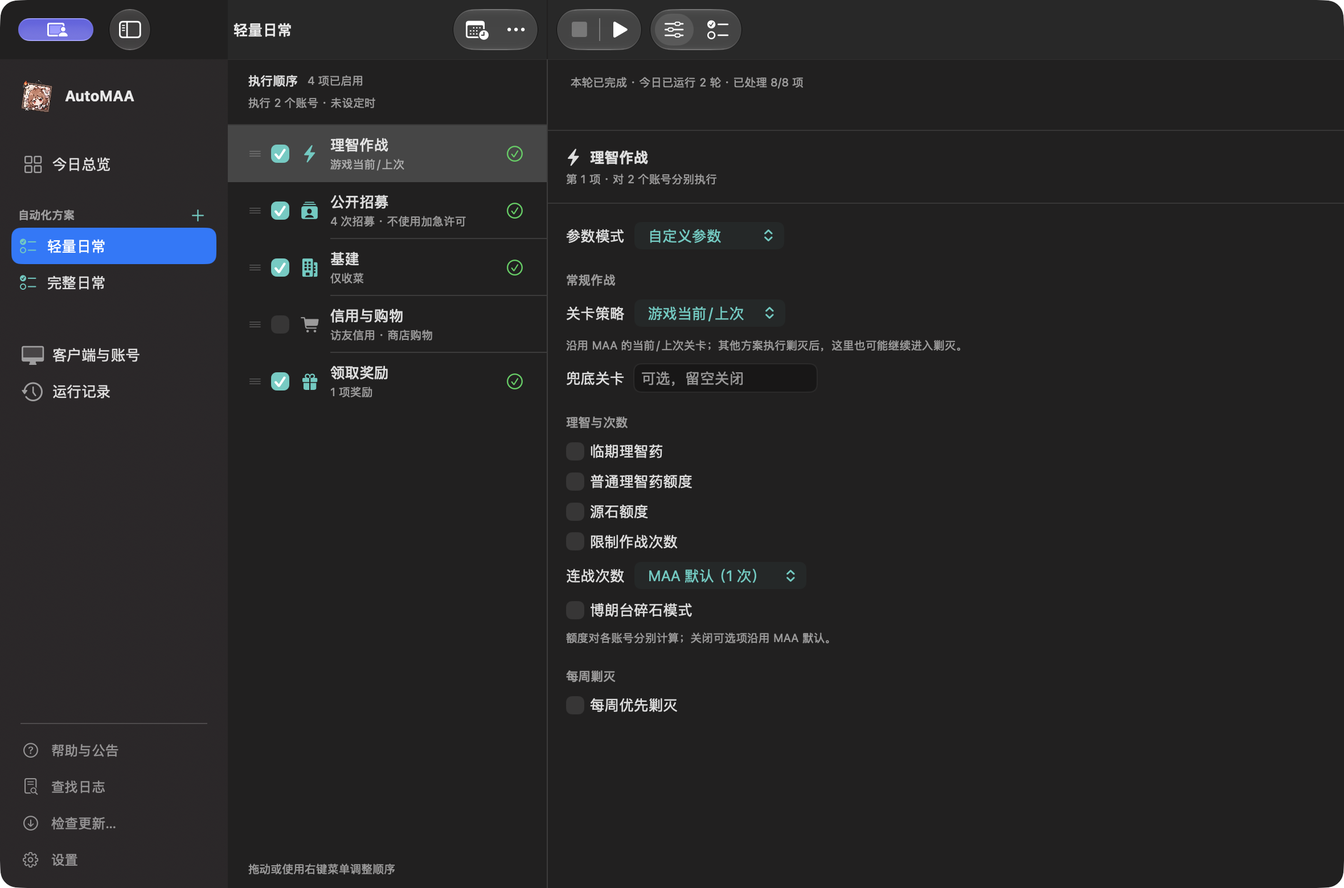
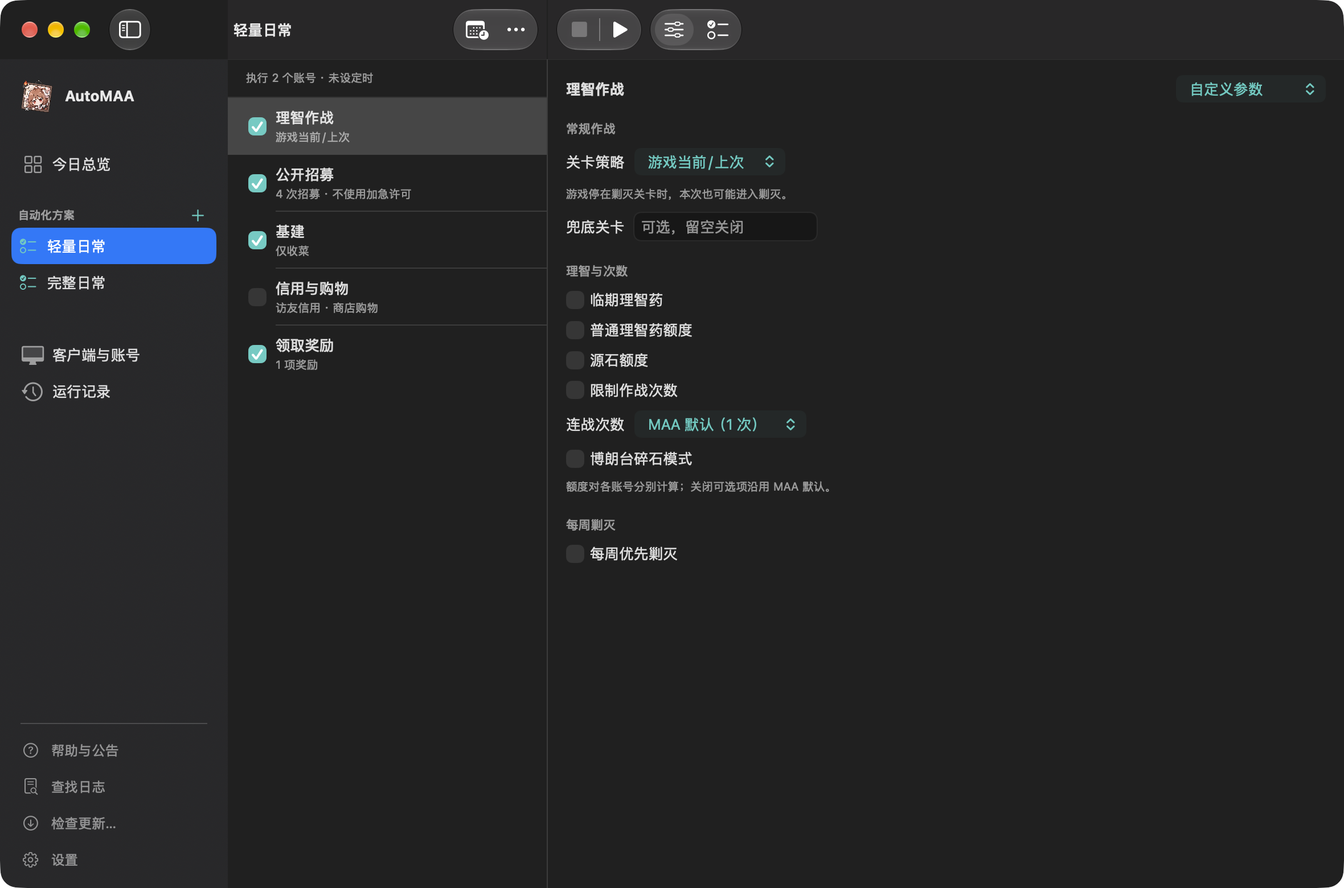
refactor: simplify the plan task editor

diff --git a/Sources/AutoMAA/PlanEditorView.swift b/Sources/AutoMAA/PlanEditorView.swift
@@ -23,15 +23,17 @@ struct PlanEditorView: View {
             switch detailSection {
             case .settings:
                 VStack(spacing: 0) {
-                    VStack(alignment: .leading, spacing: 5) {
-                        let progress = model.continuation(for: plan.id)
-                        PlanRoundSummary(progress: progress, runState: model.planRunState(planID: plan.id))
-                        if progress.hasPendingWork {
+                    if let notice = model.continuation(for: plan.id).taskSettingsNotice(isRunning: isCurrentPlanRunning) {
+                        HStack(spacing: 12) {
+                            Label(notice, systemImage: "exclamationmark.circle")
+                                .font(.callout)
+                                .foregroundStyle(ActivityOutcome.awaitingReview.color)
+                            Spacer(minLength: 8)
                             PendingWorkLinkButton { model.showPlanActivity(plan.id) }
                         }
+                        .padding(.horizontal, 16).padding(.vertical, 4)
+                        Divider()
                     }
-                        .padding(.horizontal, 20).padding(.vertical, 14)
-                    Divider()
                     if let selectedTask {
                         PlanTaskInspector(plan: $plan, task: selectedTask)
                     } else {
@@ -97,23 +99,12 @@ struct PlanEditorView: View {
     private var taskList: some View {
         let statuses = taskStatuses
         return VStack(spacing: 0) {
-            VStack(alignment: .leading, spacing: 6) {
-                HStack {
-                    Text("执行顺序")
-                        .font(.subheadline.weight(.medium))
-                    Text("\(plan.enabledTasks.count) 项已启用")
-                        .font(.caption)
-                        .foregroundStyle(.secondary)
-                    Spacer(minLength: 0)
-                }
-                Text("\(accountSummary) · \(scheduleSummary)")
-                    .font(.caption)
-                    .foregroundStyle(.secondary)
-                    .fixedSize(horizontal: false, vertical: true)
-            }
-            .frame(maxWidth: .infinity, alignment: .leading)
-            .padding(.horizontal, 18)
-            .padding(.vertical, 12)
+            Text("\(accountSummary) · \(scheduleSummary)")
+                .font(.caption)
+                .foregroundStyle(.secondary)
+                .fixedSize(horizontal: false, vertical: true)
+                .frame(maxWidth: .infinity, alignment: .leading)
+                .padding(.horizontal, 16).padding(.vertical, 10)
             Divider()
 
             List(selection: taskSelection) {
@@ -131,52 +122,37 @@ struct PlanEditorView: View {
             }
             .listStyle(.plain)
             .scrollContentBackground(.hidden)
-
-            Text(model.isWorkflowRunning ? "运行结束后可调整任务与参数" : "拖动或使用右键菜单调整顺序")
-                .font(.caption)
-                .foregroundStyle(.secondary)
-                .frame(maxWidth: .infinity, alignment: .leading)
-                .padding(.horizontal, 18)
-                .padding(.vertical, 10)
-                .fixedSize(horizontal: false, vertical: true)
+            .accessibilityLabel("执行顺序")
+            .accessibilityHint("可在任务菜单中上移或下移")
         }
     }
 
     private func taskRow(_ task: TaskKind, status: PlanTaskStatus) -> some View {
         HStack(spacing: 8) {
-            Image(systemName: "line.3.horizontal")
-                .font(.system(size: 10))
-                .foregroundStyle(.tertiary)
-                .accessibilityHidden(true)
             Toggle("启用\(task.title)", isOn: enabledBinding(for: task))
                 .labelsHidden()
                 .toggleStyle(.checkbox)
                 .disabled(model.isWorkflowRunning)
-            Button {
-                selectTask(task)
-            } label: {
-                HStack(spacing: 8) {
-                    Image(systemName: task.symbol)
-                        .font(.system(size: 14))
-                        .foregroundStyle(plan.isEnabled(task) ? Color.maaAccent : .secondary)
-                        .frame(width: 20)
-                        .accessibilityHidden(true)
-                    VStack(alignment: .leading, spacing: 3) {
-                        Text(task.title).font(.body.weight(.medium))
-                        Text(taskSummary(task))
-                            .font(.caption)
-                            .foregroundStyle(.secondary)
-                            .lineLimit(1)
-                            .help(taskSummary(task))
-                    }
-                    Spacer(minLength: 0)
-                    PlanTaskFeedback(status: status)
+            HStack(spacing: 8) {
+                VStack(alignment: .leading, spacing: 3) {
+                    Text(task.title).font(.body.weight(.medium))
+                    Text(taskSummary(task))
+                        .font(.caption)
+                        .foregroundStyle(.secondary)
+                        .lineLimit(1)
+                        .help(taskSummary(task))
                 }
-                .contentShape(Rectangle())
+                Spacer(minLength: 0)
+                PlanTaskFeedback(status: status)
             }
-            .buttonStyle(.plain)
+            .contentShape(Rectangle())
+            // The list owns selection and dragging. A click on the already selected task also reopens its settings.
+            .simultaneousGesture(TapGesture().onEnded { selectTask(task) }, including: detailSection == .activity ? .all : .none)
+            .accessibilityElement(children: .ignore)
+            .accessibilityAddTraits(.isButton)
             .accessibilityLabel("\(model.isWorkflowRunning ? "查看" : "编辑")\(task.title)参数")
             .accessibilityValue([taskSummary(task), status.description].filter { !$0.isEmpty }.joined(separator: "，"))
+            .accessibilityAction { selectTask(task) }
         }
         .padding(.vertical, 2)
         .contentShape(Rectangle())

diff --git a/Sources/AutoMAA/PlanTaskInspector.swift b/Sources/AutoMAA/PlanTaskInspector.swift
@@ -12,17 +12,18 @@ struct PlanTaskInspector: View {
 
     var body: some View {
         VStack(spacing: 0) {
-            VStack(alignment: .leading, spacing: 4) {
-                Label(task.title, systemImage: task.symbol)
-                    .font(.headline)
-                Text("第 \((plan.stepOrder.firstIndex(of: task) ?? 0) + 1) 项 · \(plan.isEnabled(task) ? "对 \(targetAccounts.count) 个账号分别执行" : "已停用，参数仍保留")")
-                    .font(.caption)
-                    .foregroundStyle(.secondary)
+            HStack(spacing: 12) {
+                VStack(alignment: .leading, spacing: 3) {
+                    Text(task.title).font(.headline).accessibilityAddTraits(.isHeader)
+                    if !plan.isEnabled(task) {
+                        Text("已停用，参数仍保留").font(.caption).foregroundStyle(.secondary)
+                    }
+                }
+                Spacer(minLength: 8)
+                parameterMode.disabled(model.isWorkflowRunning)
             }
-            .frame(maxWidth: .infinity, alignment: .leading)
             .padding(.horizontal, 16)
-            .padding(.vertical, 14)
-            Divider()
+            .padding(.top, 14)
 
             ScrollView {
                 VStack(alignment: .leading, spacing: 20) {
@@ -30,7 +31,6 @@ struct PlanTaskInspector: View {
                         Label("运行结束后可修改参数", systemImage: "lock")
                             .font(.caption).foregroundStyle(.secondary)
                     }
-                    parameterMode
                     parameters
                 }
                 .padding(16)
@@ -52,6 +52,7 @@ struct PlanTaskInspector: View {
             Text("自定义参数").tag(true)
         }
         .pickerStyle(.menu)
+        .labelsHidden()
         .fixedSize(horizontal: true, vertical: false)
         .accessibilityLabel("\(task.title)参数模式")
         .help("切回推荐参数仍保留自定义值")
@@ -75,7 +76,6 @@ struct PlanTaskInspector: View {
         }
         if task == .fight {
             weeklyAnnihilation
-            fightRecovery
             fightAccountDetails
         }
     }
@@ -307,15 +307,6 @@ struct PlanTaskInspector: View {
     }
 
     @ViewBuilder
-    private var fightRecovery: some View {
-        if !model.continuation(for: plan.id).fightRecoveryItems.isEmpty {
-            PlanFormSection("需要处理") {
-                PendingWorkLinkButton { model.showPlanActivity(plan.id) }
-            }
-        }
-    }
-
-    @ViewBuilder
     private var fightAccountDetails: some View {
         if (plan.fight.weeklyAnnihilation.enabled || showsRecoveryStage), !fightStageMemoryRows.isEmpty {
             DisclosureGroup("账号状态与常规目标") {
@@ -346,10 +337,6 @@ struct PlanTaskInspector: View {
         }
     }
 
-    private var targetAccounts: [AccountConfiguration] {
-        model.configuration.clients.filter(\.enabled).flatMap { $0.accounts.filter(plan.includes) }
-    }
-
     private var fightStageMemoryRows: [FightStageMemoryRow] {
         model.configuration.clients.filter(\.enabled).flatMap { client in
             client.accounts.filter(plan.includes).map { account in
@@ -377,7 +364,7 @@ struct PlanTaskInspector: View {
             return "识别并记住常规目标，剿灭结束后恢复。"
         }
         switch plan.fight.stageStrategy {
-        case .gameCurrentOrLast: return plan.fight.stageStrategy.detail
+        case .gameCurrentOrLast: return "游戏停在剿灭关卡时，本次也可能进入剿灭。"
         case .rememberedRegular: return "优先游戏中的常规关卡；无法识别或遇到剿灭时使用记录目标。"
         case .fixed: return nil
         }

diff --git a/Tests/AutoMAATests/ContinuationPresentationTests.swift b/Tests/AutoMAATests/ContinuationPresentationTests.swift
@@ -5,6 +5,33 @@ import Testing
 
 @Suite("Continuation presentation")
 struct ContinuationPresentationTests {
+    @Test("task settings only interrupt editing for unfinished work or fight review")
+    func taskSettingsNotice() {
+        let account = AccountConfiguration(name: "测试账号")
+        let client = ClientConfiguration(name: "测试客户端", kind: .yoStarJP, appPath: "", address: "127.0.0.1:65492",
+            profileName: "plan-settings", bundleIdentifier: "dev.automaa.tests.plan-settings", accounts: [account])
+        let plan = AutomationPlan.lightRoutine
+        let configuration = AppConfiguration(cliPath: "/usr/bin/true", clients: [client], plans: [plan])
+        var state = ExecutionState(dateKey: ExecutionStateStore.todayKey)
+        func progress() -> PlanContinuation {
+            PlanContinuation(configuration: configuration, planID: plan.id, state: state, history: [])
+        }
+        #expect(progress().taskSettingsNotice(isRunning: false) == nil)
+        _ = state.startRound(for: plan.id, at: Date())
+        #expect(progress().taskSettingsNotice(isRunning: false) == "本轮剩余 \(plan.enabledTasks.count) 项")
+        #expect(progress().taskSettingsNotice(isRunning: true) == nil)
+
+        for task in plan.enabledTasks {
+            state.completedSteps.insert(WorkflowStep(planID: plan.id, clientID: client.id, accountID: account.id, task: task).key)
+        }
+        #expect(progress().taskSettingsNotice(isRunning: false) == nil)
+        let step = WorkflowStep(planID: plan.id, clientID: client.id, accountID: account.id, task: .fight)
+        state.record(.init(status: .failed, reason: .missingRegularTarget), for: step.key)
+        #expect(progress().taskSettingsNotice(isRunning: false) == "1 项作战需要处理")
+        state.record(.init(status: .unconfirmed, reason: .missingEvidence), for: step.key)
+        #expect(progress().taskSettingsNotice(isRunning: true) == "1 项作战结果待核实")
+    }
+
     @Test("a historical record offers one live follow-up only while related work remains")
     func historicalPendingLink() {
         let planID = UUID()

diff --git a/Sources/AutoMAA/PlanRoundSummary.swift b/Sources/AutoMAA/PlanRoundSummary.swift
@@ -1,6 +1,15 @@
 import AutoMAAKit
 import SwiftUI
 
+extension PlanContinuation {
+    func taskSettingsNotice(isRunning: Bool) -> String? {
+        if unconfirmed > 0 { return "\(unconfirmed) 项作战结果待核实" }
+        if !fightRecoveryItems.isEmpty { return "\(fightRecoveryItems.count) 项作战需要处理" }
+        guard !isRunning, hasPendingWork else { return nil }
+        return "本轮剩余 \(pending) 项"
+    }
+}
+
 struct PlanRoundSummaryPresentation: Equatable {
     let title: String
     let scope: String?

diff --git a/UX-CONTRACT.md b/UX-CONTRACT.md
@@ -11,7 +11,7 @@
 | 客户端与账号 | `ClientsView` 使用三列工作区，中列按客户端分组、账号缩进，右列显示只读详情；`clientsSelection` 按 ID 保留，配置变化同步归一化。`EntityEditorSheet` 使用独立草稿，保存成功选中对应对象，取消不改变选择、不创建实体；删除账号回到父客户端，删除客户端选择邻接项 |
 | 输入与选择 | SwiftUI `TextField`、`Picker`、`Toggle`、`DatePicker` 与 `Stepper` 统一处理输入和有限选项；`DelimitedListField` 保留未提交文本，失焦或提交后规范化；macOS 负责输入法、菜单、焦点、日历和滚动条 |
 | 控件宽度 | 短选项和操作菜单按原生内容宽度显示；短文本、清单、数值行与滑条使用 `FormWidth` 限制宽度，长路径使用可用空间。原生弹层尺寸与键盘操作由系统管理 |
-| 任务参数 | 右栏常驻，提供“任务设置 / 运行概况”；选任务回设置，本方案开始运行时切运行概况一次，其他后台方案不改变选择。`PlanTaskInspector` 使用紧凑参数模式选择器；常用分组常显，条件字段跟随控制项。五类任务各一份配置，任务设置属于方案；列表启停由复选框和图标颜色表达，停用时详情副标题说明参数保留，不重复显示正文提示 |
+| 任务参数 | 右栏常驻，提供“任务设置 / 运行概况”；选任务回设置，本方案开始运行时切运行概况一次，其他后台方案不改变选择。`PlanTaskInspector` 使用紧凑参数模式选择器；常用分组常显，条件字段跟随控制项。五类任务各一份配置，任务设置属于方案；复选框表示启停；任务名与模式同行，停用时在标题下提示参数保留 |
 | 顺序 | 任务列表直接拖动 `stepOrder`；上下文菜单的上移/下移提供非拖动入口，首尾禁用。客户端与账号通过详情更多菜单或列表上下文菜单调整顺序 |
 | 操作按钮 | `ActionIconButton` / `ActionIconMenu` 统一常见图标操作；需要说明对象或去向时使用 `ActionTextButton` / `ActionTextMenu`。操作共享 26 点最小高度与辅助功能标签，动态文字预留宽度。客户端标题行提供添加账号，编辑与更多操作在各行对齐 |
 | 保存反馈 | 自动保存由 `AppModel.scheduleSave`/`saveNow` 管理；普通确认使用共享右上角轻提示，页面错误与持久保存错误共用 `ApplicationFeedbackSurface`。保存错误保留重试入口，草稿保存错误留在原 sheet 并保留输入 |
@@ -39,7 +39,7 @@
 
 准备检查保留问题影响范围，按错误与提醒分组，右侧用图标加文字标明各自的修复目标；不提供重复的全局配置菜单。长 maa-cli 路径单独显示，支持完整值访问及复制。“没有可执行的账号”按配置提供下一步：没有客户端时添加客户端，唯一启用的客户端没有账号时打开添加账号草稿并预选本方案，已有可用账号时打开所属方案的执行安排。只有一个可启用的对象时可直接编辑；有多个可能对象时进入客户端与账号列表。选择修复入口时先保存目标并关闭检查 sheet，在关闭完成回调中导航：MAA 环境问题打开对应设置页，客户端或账号问题打开列表中的编辑 sheet，方案问题定位该方案。“添加客户端”打开独立草稿，取消不创建实体。完成、Return 或 Escape 关闭检查而不导航。修复过程保留当前方案。
 
-`PlanContinuation.pendingItems` 按方案、客户端、账号和断点生成待办，`PendingWorkList` 在运行记录集中展示完整待办，方案的运行概况和理智作战参数在有事项时链接到这里。总览主面板空闲时跟随当前方案，运行时跟随实际运行身份；后台刚启动且身份未知时保留后台状态，不借用选中方案。总览方案名上的原生菜单只切换当前方案；参数与执行安排从侧栏对应方案进入，运行期间仍可只读查看。空闲时主面板仅保留一个执行入口，今日摘要只读；存在运行前提醒时提供所属方案的检查入口。异常与待核实事项从“需要处理”进入所属页面。人工处理与自动完成保留不同文案，空任务不显示完成。
+`PlanContinuation.pendingItems` 按方案、客户端、账号和断点生成待办，`PendingWorkList` 在运行记录集中展示完整待办，方案的运行概况和任务设置共用“查看待办”入口。总览主面板空闲时跟随当前方案，运行时跟随实际运行身份；后台刚启动且身份未知时保留后台状态，不借用选中方案。总览方案名上的原生菜单只切换当前方案；参数与执行安排从侧栏对应方案进入，运行期间仍可只读查看。空闲时主面板仅保留一个执行入口，今日摘要只读；存在运行前提醒时提供所属方案的检查入口。异常与待核实事项从“需要处理”进入所属页面。人工处理与自动完成保留不同文案，空任务不显示完成。
 
 总览“需要处理”从当前断点和准备检查生成，包含待确认、作战恢复、配置错误及定时异常；共享问题去重，方案问题指向所属方案。清除历史或筛选记录不改变断点及周状态。游戏日与游戏周共用各服刷新边界，历史续跑同时核对当前轮身份和服务器刷新边界，继续前重新校验；旧轮不能续跑当前轮的任务。定时只有通过 `isPlanScheduleCurrent` 检查才显示下次时间；同步中和残留安装保持独立状态。最近运行最多展示三次方案记录，排除维护与当前运行，未记录结束的记录保持未确认状态。“需要处理”和“最近运行”各用一张分组面板，共用左对齐的 `DashboardSummaryRow`。每行打开对应待办、检查或历史结果。定时条目与定时异常直接定位到所属方案执行安排的定时区。状态、精简摘要和时间聚在方案名下，展开与“全部记录”紧邻各自标题。待处理与定时分区仅在有内容时出现。详情中的今日事项按账号展示剩余任务、作战阶段和已知原因。
 
@@ -49,7 +49,7 @@
 
 ## 运行记录
 
-记录中列分为当前运行、各方案待办和按日期分组的历史，右列显示选中内容。历史使用稳定的 `ActivitySession.id` 选择；刷新、运行结束或切换页面保留选择，查看历史不会改变当前方案。选中历史后通过详情列顶栏的图标分段控件切换运行结果与完整日志，切换历史时保留所选内容模式；账号结果、掉落和提醒直接显示，长诊断按需展开。方案参数页、运行概况和待办复用 `PlanRoundSummary`，展示今日轮数，并将本轮已处理、剩余与待核实数量分开；已有进度且有可执行待办时，以橙色强调未完成部分，并提供查看待办入口；方案页播放开启新轮，待办页播放继续当前轮。配置阻断、其他操作运行或只剩待核实时不显示可续跑提示。原生停止与播放按钮保持原有图标、位置和分组；历史中列每条记录用同一位置显示结果符号、状态和摘要，结果文案与符号共用同一判定；右列展示详情，不重复添加状态徽标。“完整记录”进入对应历史；当前确有待办时，运行结果与完整日志在共用的左对齐摘要下方显示“查看待办”。待办放在最近结果前，顶部显示原记录时间、剩余数量和播放范围。播放和安全停止在详情列顶栏，只剩待核实作战时播放置灰。已归档轮次或已刷新服务器的续跑显示结束，待核实作战仍需处理。明确尚未开战的常规选关失败可跳到方案的关卡设置。历史详情的日志切换位于运行中的独立安全停止右侧。当前事项由最新断点生成，独立于历史搜索与筛选。从总览或运行入口处理待确认结果时直接选择对应方案的待办。
+记录中列分为当前运行、各方案待办和按日期分组的历史，右列显示选中内容。历史使用稳定的 `ActivitySession.id` 选择；刷新、运行结束或切换页面保留选择，查看历史不会改变当前方案。选中历史后通过详情列顶栏的图标分段控件切换运行结果与完整日志，切换历史时保留所选内容模式；账号结果、掉落和提醒直接显示，长诊断按需展开。运行概况和待办复用 `PlanRoundSummary`，展示今日轮数，并将本轮已处理、剩余与待核实数量分开；已有进度且有可执行待办时，以橙色强调未完成部分，并提供查看待办入口；方案页播放开启新轮，待办页播放继续当前轮。任务设置仅在有作战待核实、待处理或停下后有剩余任务时，于参数上方显示一行原因和“查看待办”。配置阻断、其他操作运行或只剩待核实时不显示可续跑提示。原生停止与播放按钮保持原有图标、位置和分组；历史中列每条记录用同一位置显示结果符号、状态和摘要，结果文案与符号共用同一判定；右列展示详情，不重复添加状态徽标。“完整记录”进入对应历史；当前确有待办时，运行结果与完整日志在共用的左对齐摘要下方显示“查看待办”。待办放在最近结果前，顶部显示原记录时间、剩余数量和播放范围。播放和安全停止在详情列顶栏，只剩待核实作战时播放置灰。已归档轮次或已刷新服务器的续跑显示结束，待核实作战仍需处理。明确尚未开战的常规选关失败可跳到方案的关卡设置。历史详情的日志切换位于运行中的独立安全停止右侧。当前事项由最新断点生成，独立于历史搜索与筛选。从总览或运行入口处理待确认结果时直接选择对应方案的待办。
 
 `ActivitySearchField` 搜索方案、客户端、账号、任务、消息及详情，首尾空白忽略；清除按钮恢复结果并返回输入焦点；空查询时保留按钮占位、禁用并对辅助功能隐藏，输入区宽度保持不变。相邻的筛选图标打开原生菜单，勾选“全部／提醒／失败”，底部显示当前条件；筛选保留整次运行上下文：提醒包括警告、错误、未完成和当次待补剿灭，失败依据最终结果或失败步骤。条件保留在当前应用会话中，清除筛选恢复全部历史；无结果时保留清除入口。
 

diff --git a/docs/guide/getting-started.md b/docs/guide/getting-started.md
@@ -1,6 +1,6 @@
 # 首次配置
 
-> 本页介绍 v0.17.2。
+> 方案任务编辑区介绍尚未发布的布局。[v0.17.2 使用指南](https://github.com/Rememorio/AutoMAA/blob/v0.17.2/docs/guide/getting-started.md)。
 
 先配置一个客户端、一个账号和一个方案，跑通后再扩展账号与定时。可以在尚未安装 MAA 时填写配置；运行前完成[MAA 运行环境安装](./installation)、游戏登录和数据下载。
 
@@ -10,7 +10,7 @@
 
 任务列表顶部的“执行 N 个账号”表示方案范围，“未设定时”表示尚未开启定时。当前运行状态集中显示在侧栏底部、帮助与公告上方；方案页的停止和播放在顶栏固定成组显示，只改变可用性，不替换图标或文字；客户端与历史记录空闲时不显示运行按钮，后台操作期间提供独立停止入口。工具栏的侧栏按钮或 `Control-Command-S` 可收起、展开导航；方案增多时列表和总览可滚动。
 
-任务行右侧会在运行过程中更新。转圈表示正在执行，绿勾表示全部目标账号均已完成该项，红叉表示失败，灰色斜线表示取消，橙色提醒表示有结果待处理。具体原因可在运行概况中查看。
+任务行右侧会在运行过程中更新。转圈表示正在执行，绿勾表示全部目标账号均已完成该项，红叉表示失败，灰色斜线表示取消，橙色提醒表示有结果待处理。今日轮数与完整进度可在“运行概况”查看。有作战待核实、待处理或本轮停止后仍有剩余任务时，可直接点击参数上方的“查看待办”。
 
 今日总览以当前方案为主。点击方案名可切换方案，参数与执行安排从左侧对应方案进入。主区显示账号范围、任务顺序、运行入口和进度摘要。运行期间显示实际操作名称和最新消息：游戏任务卡片提供“查看运行”和“安全停止”，独立 MAA 维护只提供“查看维护”，进入 MAA 环境设置后可取消更新。总览顶栏始终保留页面标题与侧栏开关，总体阶段与进度集中在侧栏底部。
 

diff --git a/docs/tasks/index.md b/docs/tasks/index.md
@@ -16,7 +16,13 @@
 
 ## 推荐参数还是自定义参数
 
-选择任务后，在右侧“参数模式”选择“MAA 推荐参数”或“自定义参数”。推荐模式使用 AutoMAA 对齐 MAA 的设置；自定义模式使用保存的参数。反复切换不会丢失此前输入，任务停用后参数也会保留。
+选择任务后，在右侧任务标题旁选择“MAA 推荐参数”或“自定义参数”。推荐模式使用 AutoMAA 对齐 MAA 的设置；自定义模式使用保存的参数。反复切换不会丢失此前输入，任务停用后参数也会保留。
+
+<figure class="guide-screenshot">
+  <img class="theme-shot theme-shot-light" src="../assets/screenshots/task-settings-light.webp" width="2360" height="1560" loading="lazy" decoding="async" alt="方案页：中列按执行顺序列出任务，右栏显示理智作战及其自定义参数" />
+  <img class="theme-shot theme-shot-dark" src="../assets/screenshots/task-settings-dark.webp" width="2360" height="1560" loading="lazy" decoding="async" alt="深色方案页：中列按执行顺序列出任务，右栏显示理智作战及其自定义参数" />
+  <figcaption>尚未发布的方案页。任务标题旁可切换参数模式，本轮统计在“运行概况”中查看。</figcaption>
+</figure>
 
 ::: tip 只收基建产物
 选择“自定义参数”，基建模式使用“仅收菜”。切换到“MAA 推荐参数”会使用常规换班设置。

diff --git a/CHANGELOG.md b/CHANGELOG.md
@@ -4,6 +4,8 @@
 
 ## 未发布
 
+- 方案页将任务名称和参数模式放在同一行，列表保留启用开关、配置摘要和执行结果。日常轮次统计集中在运行概况，待核实或未完成事项可直接从参数上方查看。
+
 ## 0.17.2 - 2026-11-21
 
 ### 修复
